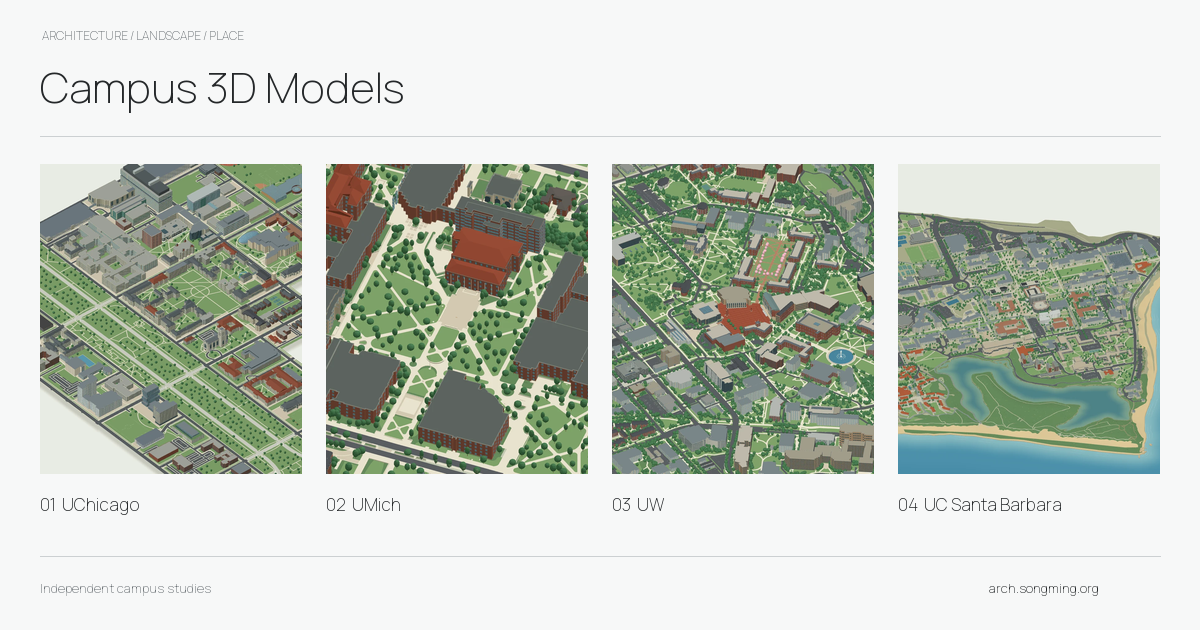
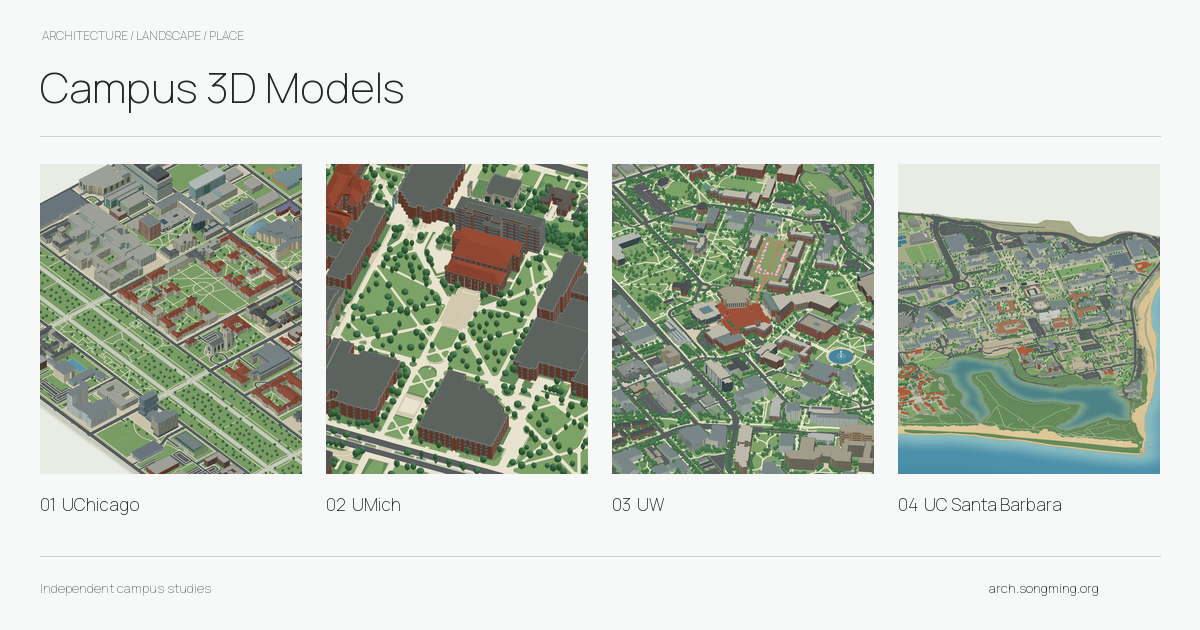
Release 26.10.18.6

Changed region(s): [[0.0308, 0.2413, 0.2775, 0.754]]

diff --git a/index.html b/index.html
@@ -1,7 +1,7 @@
 <!doctype html>
 <html lang="en"><head><meta charset="utf-8"><meta name="viewport" content="width=device-width,initial-scale=1"><meta name="color-scheme" content="light"><meta name="theme-color" content="#f7f8f8">
 <title>Campus 3D Models | Explore Four University Campuses</title><meta name="description" content="Explore UChicago, UMich, UW and UC Santa Barbara through interactive 3D campus models. Discover architecture, landscapes, and layered Rhino and 3DS downloads."><meta name="robots" content="index,follow,max-image-preview:large"><link rel="canonical" href="https://arch.songming.org/">
-<meta property="og:type" content="website"><meta property="og:site_name" content="Campus 3D Models"><meta property="og:title" content="Campus 3D Models"><meta property="og:description" content="Four campuses. A different perspective. Explore UChicago, UMich, UW and UC Santa Barbara in 3D."><meta property="og:url" content="https://arch.songming.org/"><meta property="og:locale" content="en_US"><meta property="og:locale:alternate" content="zh_CN"><meta property="og:image" content="https://arch.songming.org/assets/images/social-preview.png?v=26.10.18.5"><meta property="og:image:width" content="1200"><meta property="og:image:height" content="630"><meta property="og:image:alt" content="Four architectural campus model previews from the Campus 3D Models collection."><meta name="twitter:card" content="summary_large_image"><meta name="twitter:title" content="Campus 3D Models"><meta name="twitter:description" content="Four campuses. A different perspective."><meta name="twitter:image" content="https://arch.songming.org/assets/images/social-preview.png?v=26.10.18.5">
+<meta property="og:type" content="website"><meta property="og:site_name" content="Campus 3D Models"><meta property="og:title" content="Campus 3D Models"><meta property="og:description" content="Four campuses. A different perspective. Explore UChicago, UMich, UW and UC Santa Barbara in 3D."><meta property="og:url" content="https://arch.songming.org/"><meta property="og:locale" content="en_US"><meta property="og:locale:alternate" content="zh_CN"><meta property="og:image" content="https://arch.songming.org/assets/images/social-preview.png?v=26.10.18.6"><meta property="og:image:width" content="1200"><meta property="og:image:height" content="630"><meta property="og:image:alt" content="Four architectural campus model previews from the Campus 3D Models collection."><meta name="twitter:card" content="summary_large_image"><meta name="twitter:title" content="Campus 3D Models"><meta name="twitter:description" content="Four campuses. A different perspective."><meta name="twitter:image" content="https://arch.songming.org/assets/images/social-preview.png?v=26.10.18.6">
 <link rel="icon" type="image/svg+xml" href="assets/brand/atlas.svg"><link rel="icon" type="image/png" sizes="32x32" href="assets/brand/icon-32.png"><link rel="apple-touch-icon" href="assets/brand/apple-touch-icon.png"><link rel="stylesheet" href="assets/site.css?v=26.10.18.2"><script defer src="assets/site.js"></script><script type="application/ld+json" id="schema">{"@context":"https://schema.org","@graph":[{"@type":"WebSite","@id":"https://arch.songming.org/#website","url":"https://arch.songming.org/","name":"Campus 3D Models","inLanguage":["en","zh-CN"]},{"@type":"CollectionPage","@id":"https://arch.songming.org/#collection","url":"https://arch.songming.org/","name":"Campus 3D Models","description":"Explore interactive 3D campus models of UChicago, UMich, UW and UC Santa Barbara.","isPartOf":{"@id":"https://arch.songming.org/#website"},"mainEntity":{"@type":"ItemList","numberOfItems":4,"itemListElement":[{"@type":"ListItem","position":1,"name":"University of Washington","url":"https://uw.arch.songming.org/"},{"@type":"ListItem","position":2,"name":"UC Santa Barbara","url":"https://ucsb.arch.songming.org/"},{"@type":"ListItem","position":3,"name":"University of Chicago","url":"https://uchi.arch.songming.org/"},{"@type":"ListItem","position":4,"name":"University of Michigan","url":"https://umich.arch.songming.org/"}]}}]}</script></head>
 <body id="top">
 <a href="#campuses" class="skip-link" data-i18n="skip">Skip to campus collection</a>
@@ -20,7 +20,7 @@
  <p class="project-features" data-i18n="ucsb.features">Campus Lagoon · Pacific coast · Isla Vista</p><span class="project-link"><span data-i18n="open">View model</span><span class="model-arrow" aria-hidden="true"><svg viewBox="0 0 16 24" width="16" height="24" focusable="false"><path d="M3 18 13 7M5.5 7H13v7.5"/></svg></span></span>
 </a><a class="campus-card" href="https://uchi.arch.songming.org/" target="_blank" rel="noopener" data-campus="uchi" id="project-uchi" aria-label="View University of Chicago model (opens in a new tab)">
  <div class="project-line"><span class="project-number">03</span><span data-i18n="uchi.location">Chicago, Illinois</span><span class="project-mark" aria-hidden="true"><svg viewBox="0 0 24 24" aria-hidden="true"><path d="M5 19 19 5M5 5h14v14"/></svg></span></div>
- <div class="card-image"><img src="assets/images/uchi-small.webp?v=26.10.18.5" srcset="assets/images/uchi-small.webp?v=26.10.18.5 700w, assets/images/uchi.webp?v=26.10.18.5 1400w" sizes="(max-width: 700px) 100vw, 50vw" width="1400" height="1000" alt="3D exterior model of the University of Chicago campus" loading="lazy" decoding="async"></div>
+ <div class="card-image"><img src="assets/images/uchi-small.webp?v=26.10.18.6" srcset="assets/images/uchi-small.webp?v=26.10.18.6 700w, assets/images/uchi.webp?v=26.10.18.6 1400w" sizes="(max-width: 700px) 100vw, 50vw" width="1400" height="1000" alt="3D exterior model of the University of Chicago campus" loading="lazy" decoding="async"></div>
  <div class="project-caption"><h3 data-i18n="uchi.name">University of Chicago</h3><span data-i18n="uchi.campus">Hyde Park campus</span></div>
  <p class="project-features" data-i18n="uchi.features">Main Quads · Midway Plaisance · Architectural landmarks</p><span class="project-link"><span data-i18n="open">View model</span><span class="model-arrow" aria-hidden="true"><svg viewBox="0 0 16 24" width="16" height="24" focusable="false"><path d="M3 18 13 7M5.5 7H13v7.5"/></svg></span></span>
 </a><a class="campus-card" href="https://umich.arch.songming.org/" target="_blank" rel="noopener" data-campus="umich" id="project-umich" aria-label="View University of Michigan model (opens in a new tab)">

diff --git a/docs/ASSET_SOURCES.md b/docs/ASSET_SOURCES.md
@@ -2,7 +2,7 @@
 
 Campus previews are exported renders from the corresponding local campus projects. They are used here as static navigation previews; interactive models remain on their own websites. The images are cropped/resized and encoded as WebP. Their original geometry and source attribution remain documented in each campus project.
 
[5 lines of base64/hex data omitted]

diff --git a/CHANGELOG.md b/CHANGELOG.md
@@ -1,5 +1,11 @@
 # Changelog
 
+## 26.10.18.6 — 2026-10-18
+
+- Enlarge the UChicago collection thumbnail by a further 11% with a tighter centered crop while retaining its recorded viewing direction, target and camera span.
+- Recapture the complete original geometry of UChicago Release 26.10.18.16, including the reconstructed Main Quadrangles and detailed Harper Memorial Library. Update both thumbnail sizes and only the UChicago share-image tile.
+- Preserve campus order, copy, typography, layout, and the other three campus preview images.
+
 ## 26.10.18.5 — 2026-10-18
 
 - Tighten UChicago's preview crop to enlarge the campus by approximately 18% and reduce empty margins, retaining the original viewing angle and current full-model source image.
